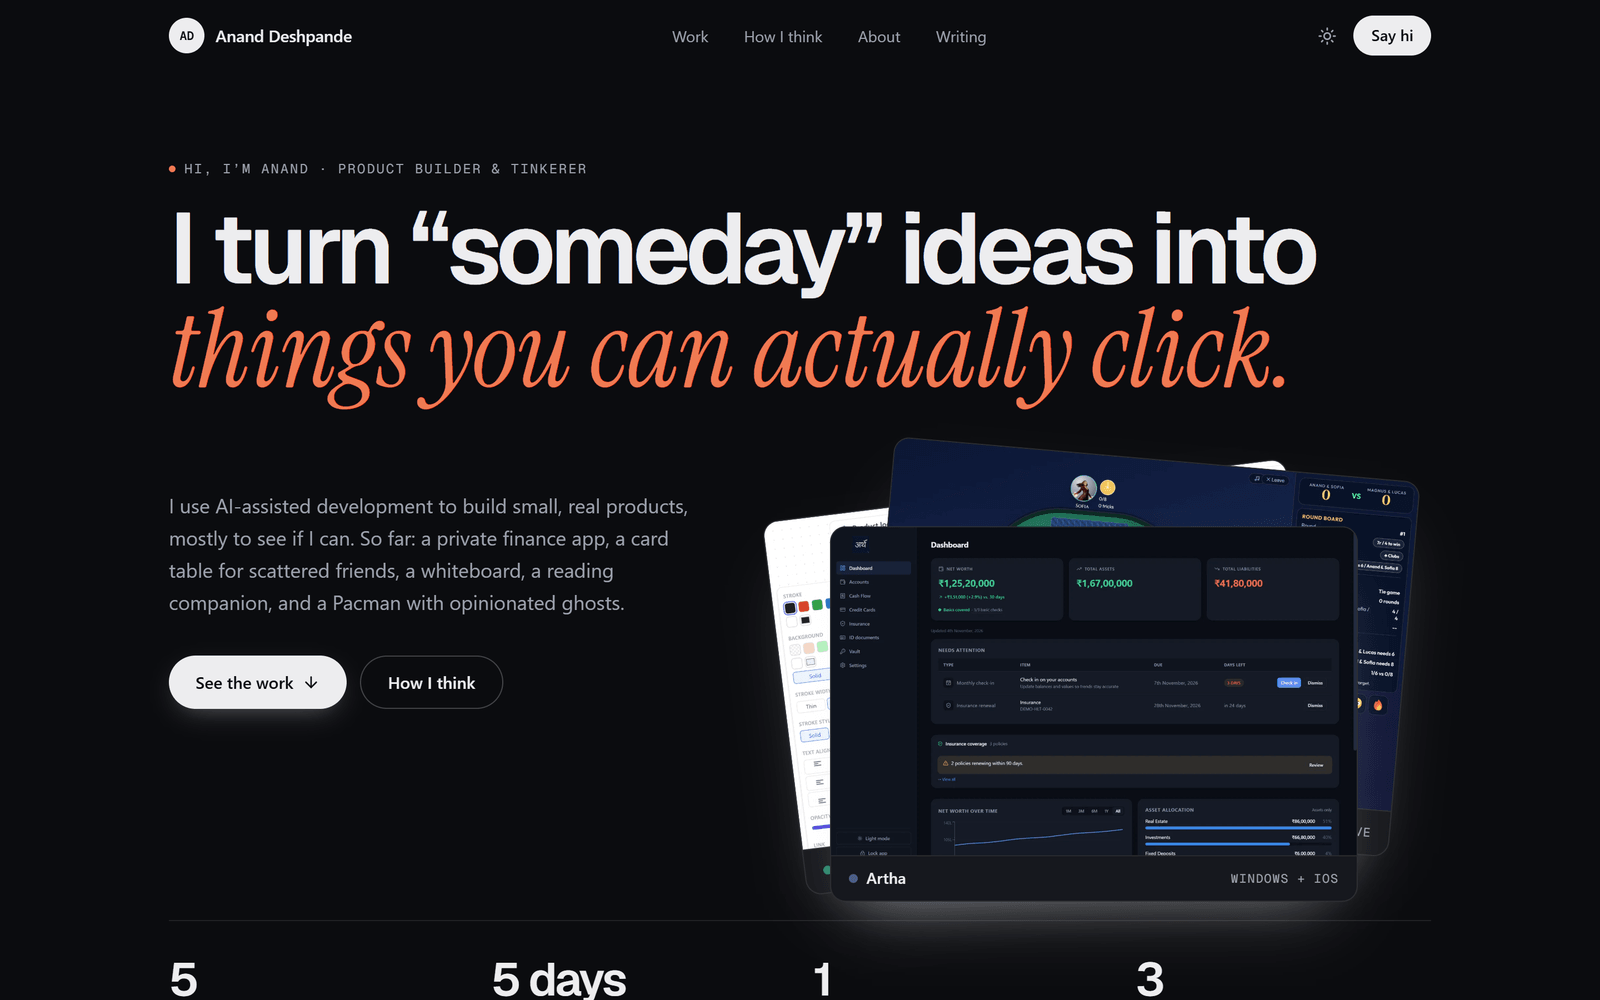
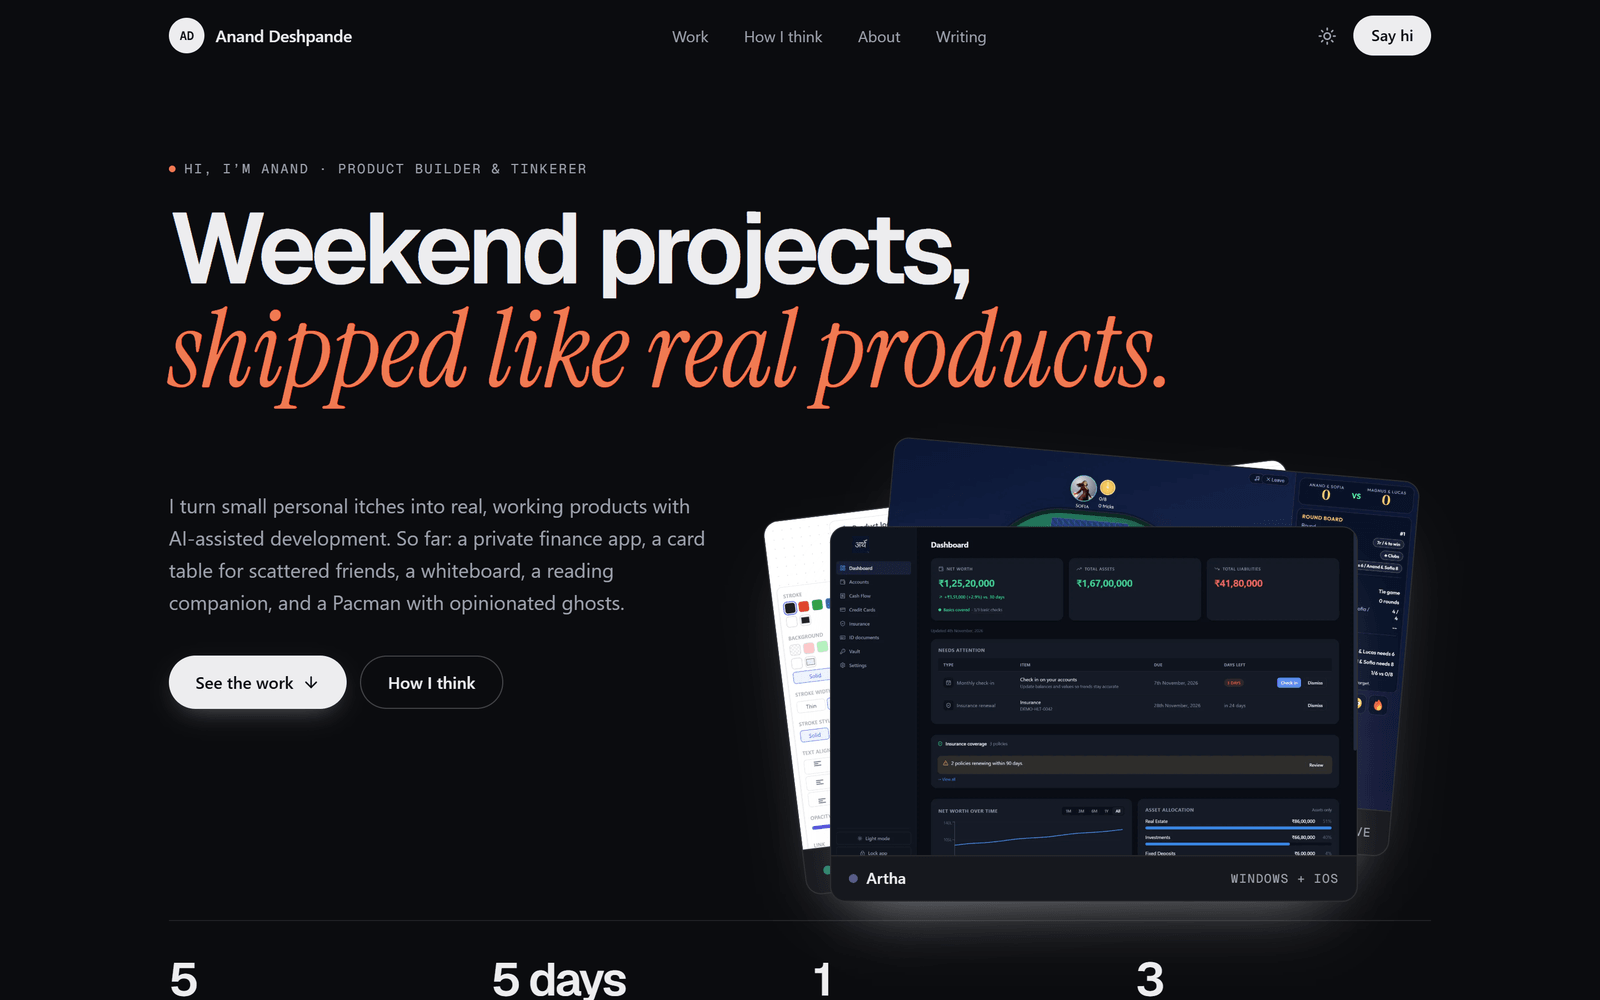
Update hero copy: "Weekend projects, shipped like real products."
Refresh the home social preview and README screenshots to match.

Changed region(s): [[0.0938, 0.217, 0.8438, 0.403], [0.0938, 0.496, 0.4375, 0.558]]

diff --git a/src/lib/site.ts b/src/lib/site.ts
@@ -18,9 +18,9 @@ export const site = {
     'Anand Deshpande builds small, real products with AI: a private finance app, a multiplayer card table, a whiteboard, a reading companion, and a Pacman with opinionated ghosts.',
 
   // The hero headline. Wrap the phrase you want highlighted in {{ }}.
-  heroHeadline: 'I turn “someday” ideas into {{things you can actually click.}}',
+  heroHeadline: 'Weekend projects, {{shipped like real products.}}',
   heroSub:
-    'I use AI-assisted development to build small, real products, mostly to see if I can. So far: a private finance app, a card table for scattered friends, a whiteboard, a reading companion, and a Pacman with opinionated ghosts.',
+    'I turn small personal itches into real, working products with AI-assisted development. So far: a private finance app, a card table for scattered friends, a whiteboard, a reading companion, and a Pacman with opinionated ghosts.',
 
   // Big numbers under the hero. `value: 'projects'` is replaced with the live project count.
   proof: [
